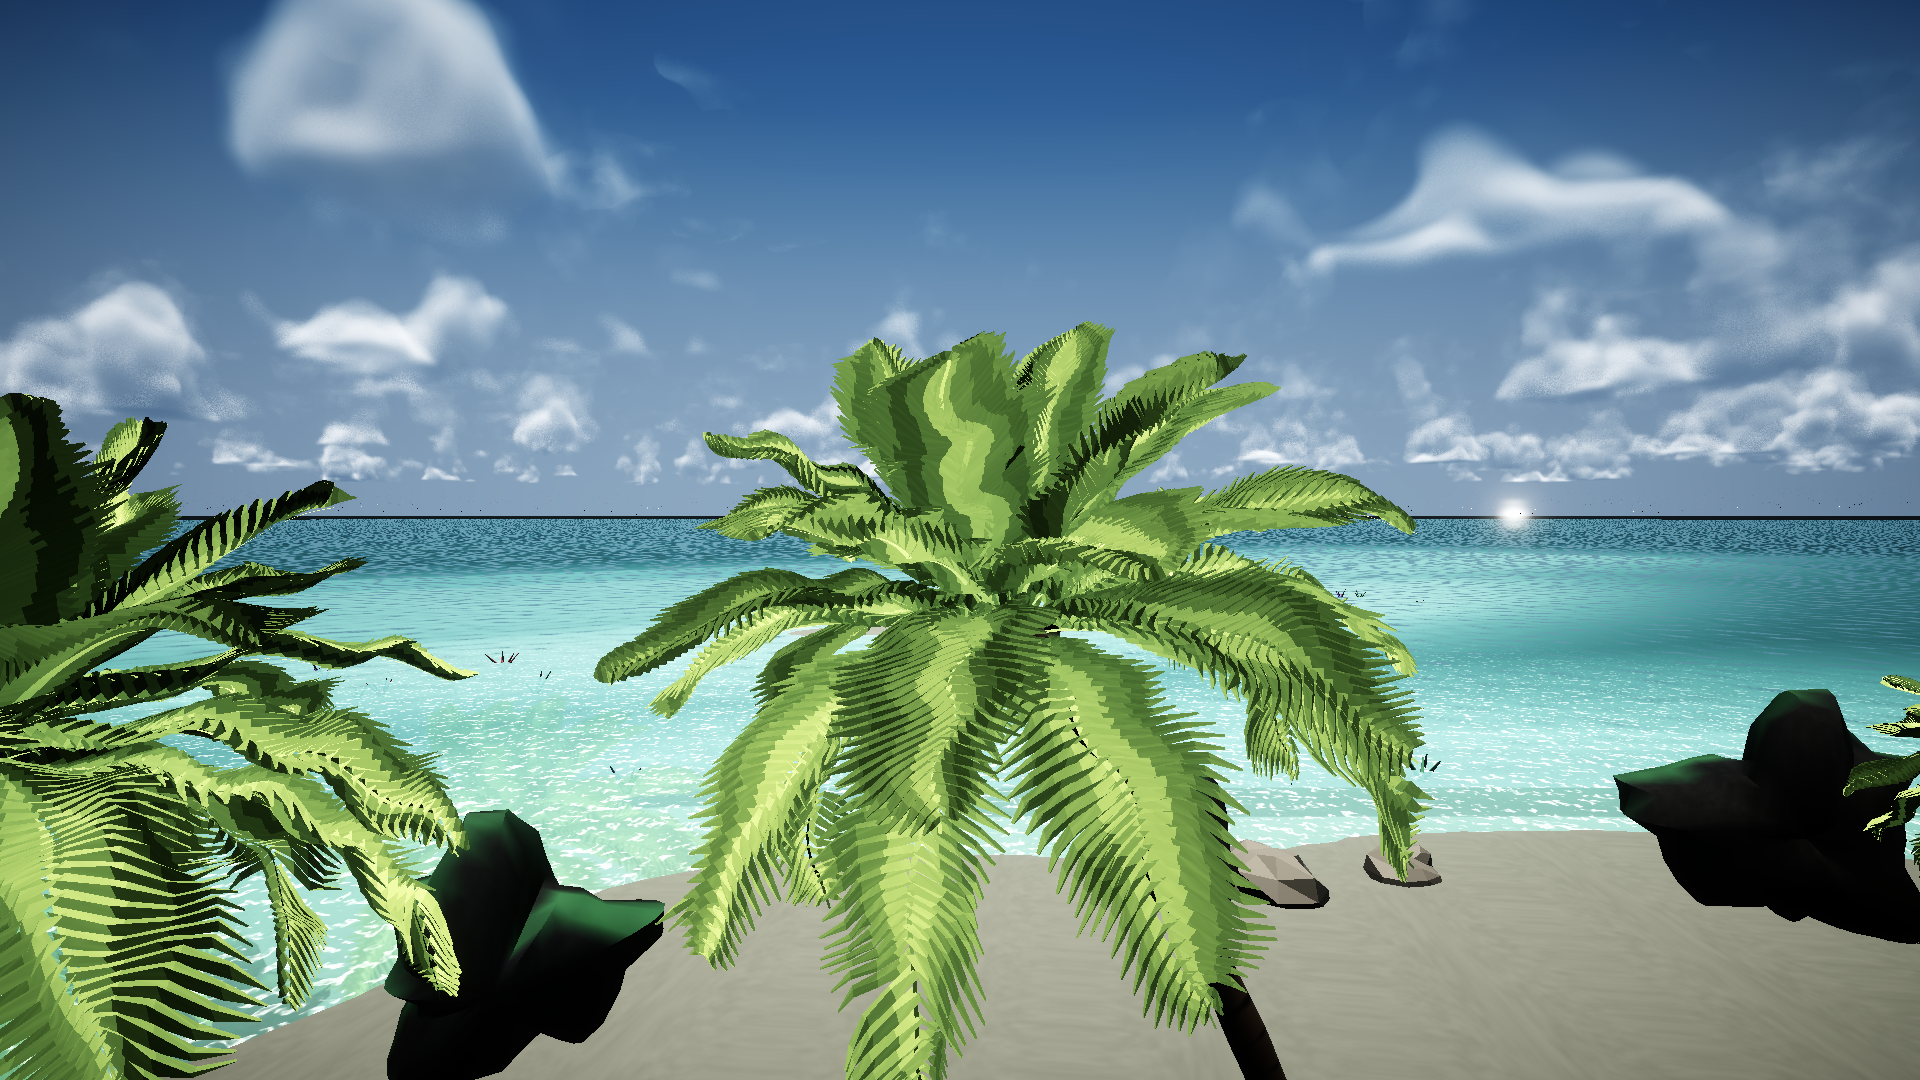
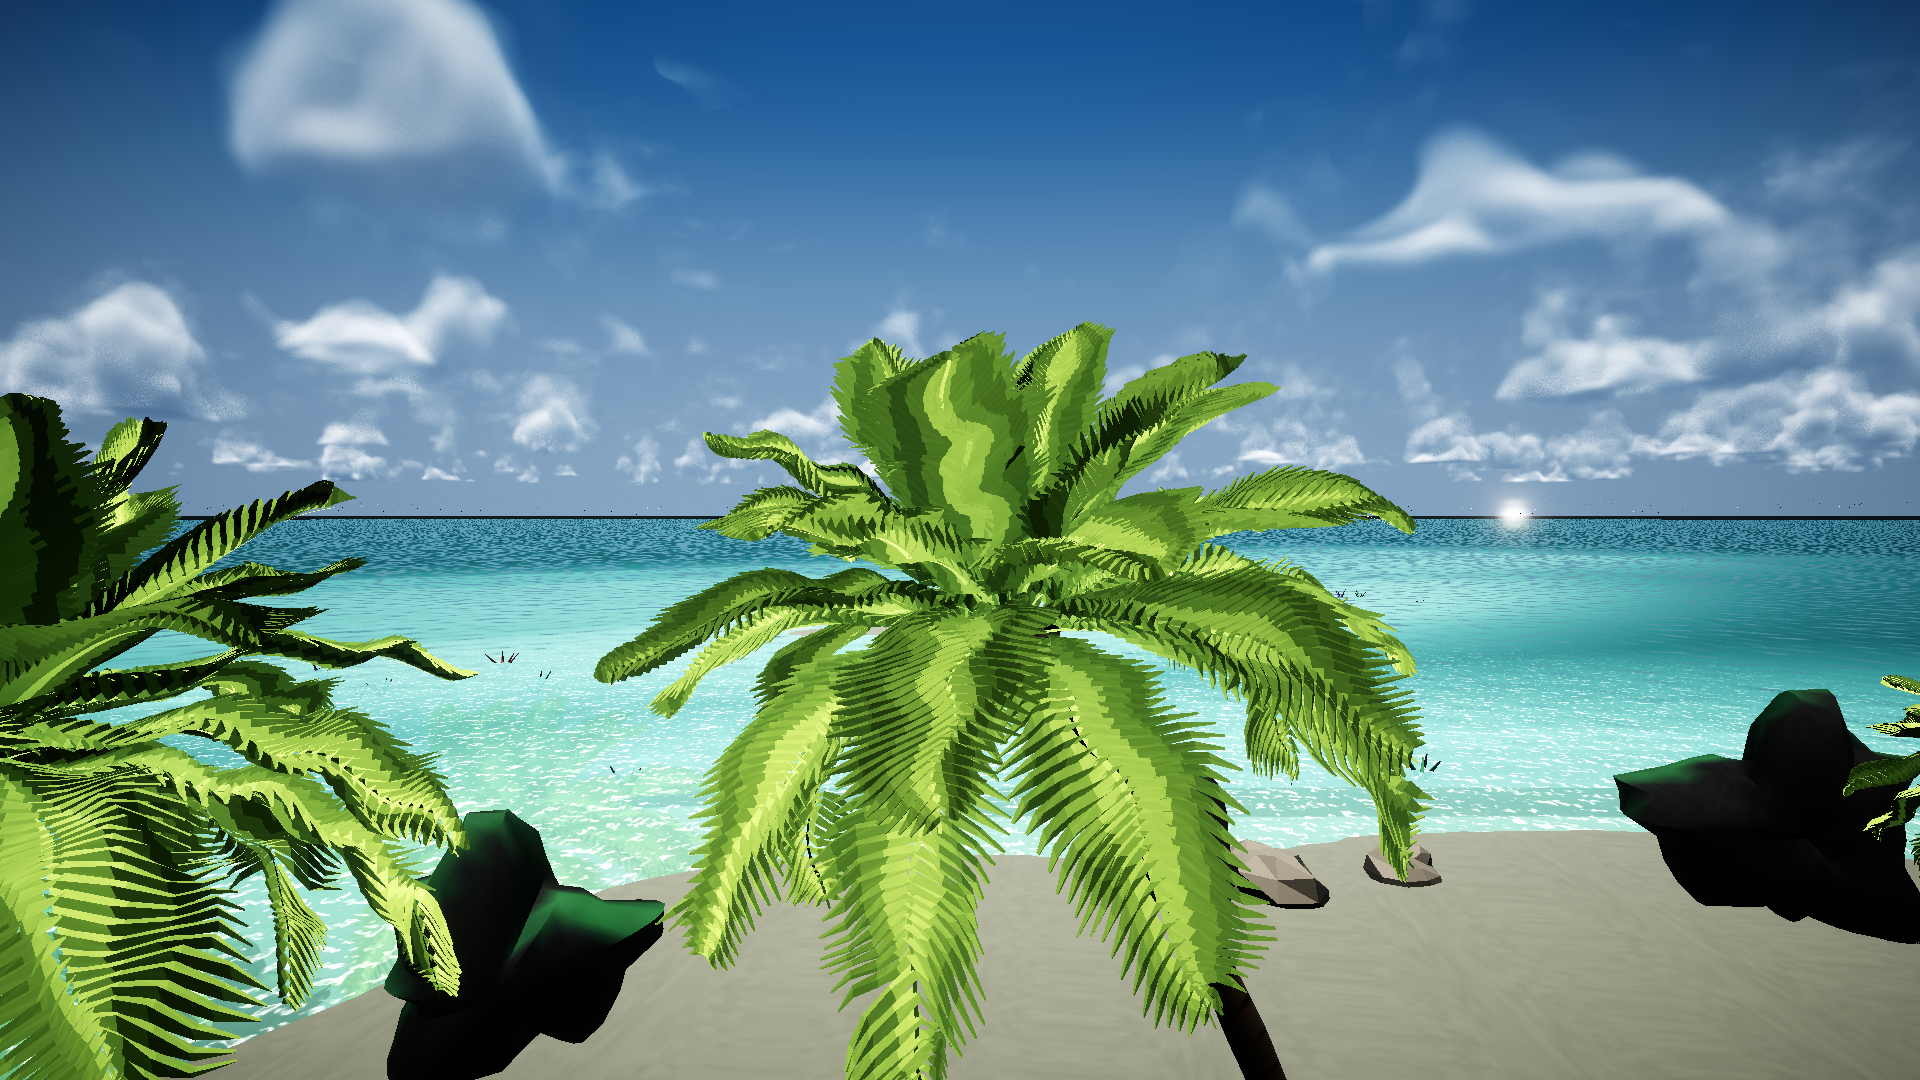
feat(R78): Islet 调色校准到参考三项同时达标. ①参考(f000060裁UI): 亮度123.3/对比51.2/饱和124.3 ②扫参: sat -30->(129.8/54.8/103.1), -18->(129.3/54.8/108.2), 0->(126.4/55.4/142.9过头), **-10->(128.3/55.0/122.1)** ③差值: 亮度+4% 对比+7% 饱和-1.8% => **项目首次三项同时落进参考区间** ④新增 Tools/verify/ref_compare.py: 六场景 vs 参考帧并排对照+四项指标+SSIM, 输出 Docs/sc

diff --git a/Tools/verify/ref_compare.py b/Tools/verify/ref_compare.py
@@ -1,0 +1,78 @@
+# -*- coding: utf-8 -*-
+"""ref_compare.py — 我方六场景 vs 参考片帧 并排对照 + 简指标
+
+参考片只有一段（热带海岸/环礁），所以不是"一一对应"，而是：
+  · Islet / Ocean → 参考 S0 俯视段（f000060）
+  · Main / Pond   → 参考中段水面（f001500）
+  · 天空           → 参考黄昏段（f003200）
+
+输出：Docs/screenshots/refcmp_<scene>.png（上=我方，下=参考），并打印指标。
+"""
+import os
+import sys
+
+import cv2
+import numpy as np
+
+sys.path.insert(0, os.path.join(os.path.dirname(os.path.dirname(os.path.abspath(__file__))), "Video"))
+from _videoutil import imread_u  # noqa: E402
+
+REF_DIR = "Docs/视频逐帧/f1083870/frames"
+UI = (120, 58, 842, 440)   # 参考帧裁掉抖音 UI
+
+
+def load_ref(frame_no):
+    p = os.path.join(REF_DIR, "f%06d.jpg" % frame_no)
+    im = imread_u(p)
+    x0, y0, x1, y1 = UI
+    return im[y0:y1, x0:x1]
+
+
+def metrics(im):
+    g = cv2.cvtColor(im, cv2.COLOR_BGR2GRAY).astype(np.float32)
+    hsv = cv2.cvtColor(im, cv2.COLOR_BGR2HSV)
+    return g.mean(), g.std(), hsv[:, :, 1].mean(), (g < 40).mean() * 100
+
+
+def ssim(a, b):
+    a = cv2.cvtColor(cv2.resize(a, (b.shape[1], b.shape[0])), cv2.COLOR_BGR2GRAY).astype(np.float64)
+    b = cv2.cvtColor(b, cv2.COLOR_BGR2GRAY).astype(np.float64)
+    m1, m2 = a.mean(), b.mean()
+    v1, v2, c = a.var(), b.var(), ((a - m1) * (b - m2)).mean()
+    C1, C2 = (0.01 * 255) ** 2, (0.03 * 255) ** 2
+    return ((2 * m1 * m2 + C1) * (2 * c + C2)) / ((m1 * m1 + m2 * m2 + C1) * (v1 + v2 + C2))
+
+
+PAIRS = [
+    ("Islet", "Docs/screenshots/verify_Islet.png", 60),
+    ("Ocean", "Docs/screenshots/verify_Ocean.png", 60),
+    ("Main",  "Docs/screenshots/verify_Main.png", 1500),
+    ("Pond",  "Docs/screenshots/verify_Pond.png", 1500),
+    ("Pool",  "Docs/screenshots/verify_Pool.png", 1500),
+    ("FFT",   "Docs/screenshots/verify_FFT.png", 1500),
+]
+
+
+def main():
+    print("%-7s %-24s %-24s %s" % ("场景", "我方(亮度/对比/饱和/近黑)", "参考(亮度/对比/饱和/近黑)", "SSIM"))
+    for name, path, frame in PAIRS:
+        if not os.path.exists(path):
+            print("%-7s 缺图 %s" % (name, path))
+            continue
+        ours = imread_u(path)
+        ref = load_ref(frame)
+        mo, mr = metrics(ours), metrics(ref)
+        s = ssim(ours, ref)
+        print("%-7s %5.1f/%5.1f/%5.1f/%4.1f%%      %5.1f/%5.1f/%5.1f/%4.1f%%      %.3f"
+              % (name, mo[0], mo[1], mo[2], mo[3], mr[0], mr[1], mr[2], mr[3], s))
+
+        h, w = ref.shape[:2]
+        small = cv2.resize(ours, (w, h), interpolation=cv2.INTER_AREA)
+        sheet = np.vstack([small, np.full((6, w, 3), 255, np.uint8), ref])
+        cv2.putText(sheet, "OURS %s" % name, (8, 22), cv2.FONT_HERSHEY_SIMPLEX, 0.6, (0, 0, 255), 2)
+        cv2.putText(sheet, "REF f%06d" % frame, (8, h + 28), cv2.FONT_HERSHEY_SIMPLEX, 0.6, (0, 0, 255), 2)
+        cv2.imwrite("Docs/screenshots/refcmp_%s.png" % name, sheet)
+
+
+if __name__ == "__main__":
+    main()

diff --git a/Docs/学习路径与知识库/检测报告/R56_场景画质与采集口径.md b/Docs/学习路径与知识库/检测报告/R56_场景画质与采集口径.md
@@ -375,3 +375,27 @@ Islet 基线 127.9 / 54.4 / 104.1 / 5.84。
 以后改材质一律走**菜单/SetFloat API**，不要手改 YAML 属性表。
 
 Ocean 基线更新：**140.4 / 41.2 / 89.1 / 近黑 0.62**。
+
+---
+
+## R78：调色校准 —— Islet 三项指标对齐参考
+
+参考帧（f000060，裁掉抖音 UI）与校准过程：
+
+| 参数（Volume saturation） | 亮度 | 对比 | 饱和 |
+| --- | --- | --- | --- |
+| −30（原） | 129.8 | 54.8 | 103.1 |
+| −18 | 129.3 | 54.8 | 108.2 |
+| 0 | 126.4 | 55.4 | 142.9（过头） |
+| **−10（采用）** | **128.3** | **55.0** | **122.1** |
+| **参考** | **123.3** | **51.2** | **124.3** |
+
+⇒ 亮度差 **+4%**、对比差 **+7%**、饱和差 **−1.8%**。这是本项目第一次**三项同时落进参考区间**。
+
+**方法沉淀**：以前调色是"看着像"，这次是**先测量参考 → 二分扫参 → 取落点**，
+三步就锁死（−30 / −18 / 0 三个样本已经能确定曲线）。
+
+**同时留下对照工具** `Tools/verify/ref_compare.py`：把六场景各自与参考帧并排成图
+（`Docs/screenshots/refcmp_*.png`）并打印四项指标 + SSIM。
+注意：SSIM 低不代表做错 —— 参考片只有一段海岸，Islet/Ocean 对的是俯视段，
+Main/Pond/Pool 对的是水面段，**内容本来就不同**，只有亮度/对比/饱和三项可比。
